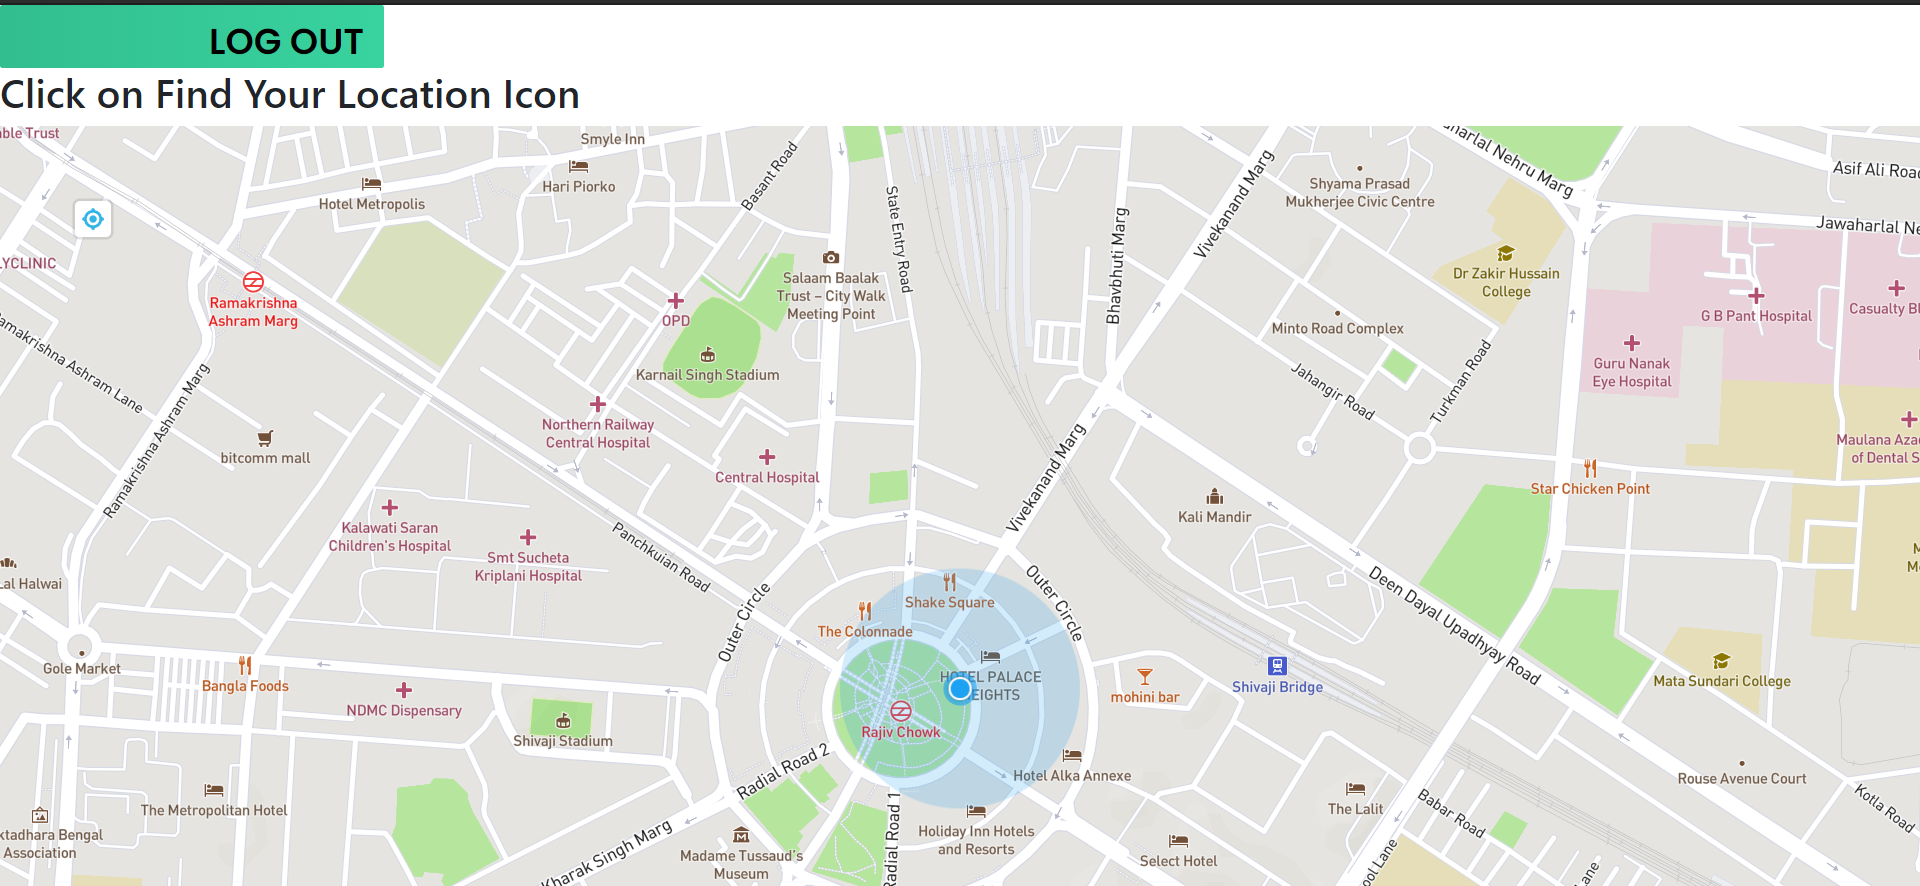
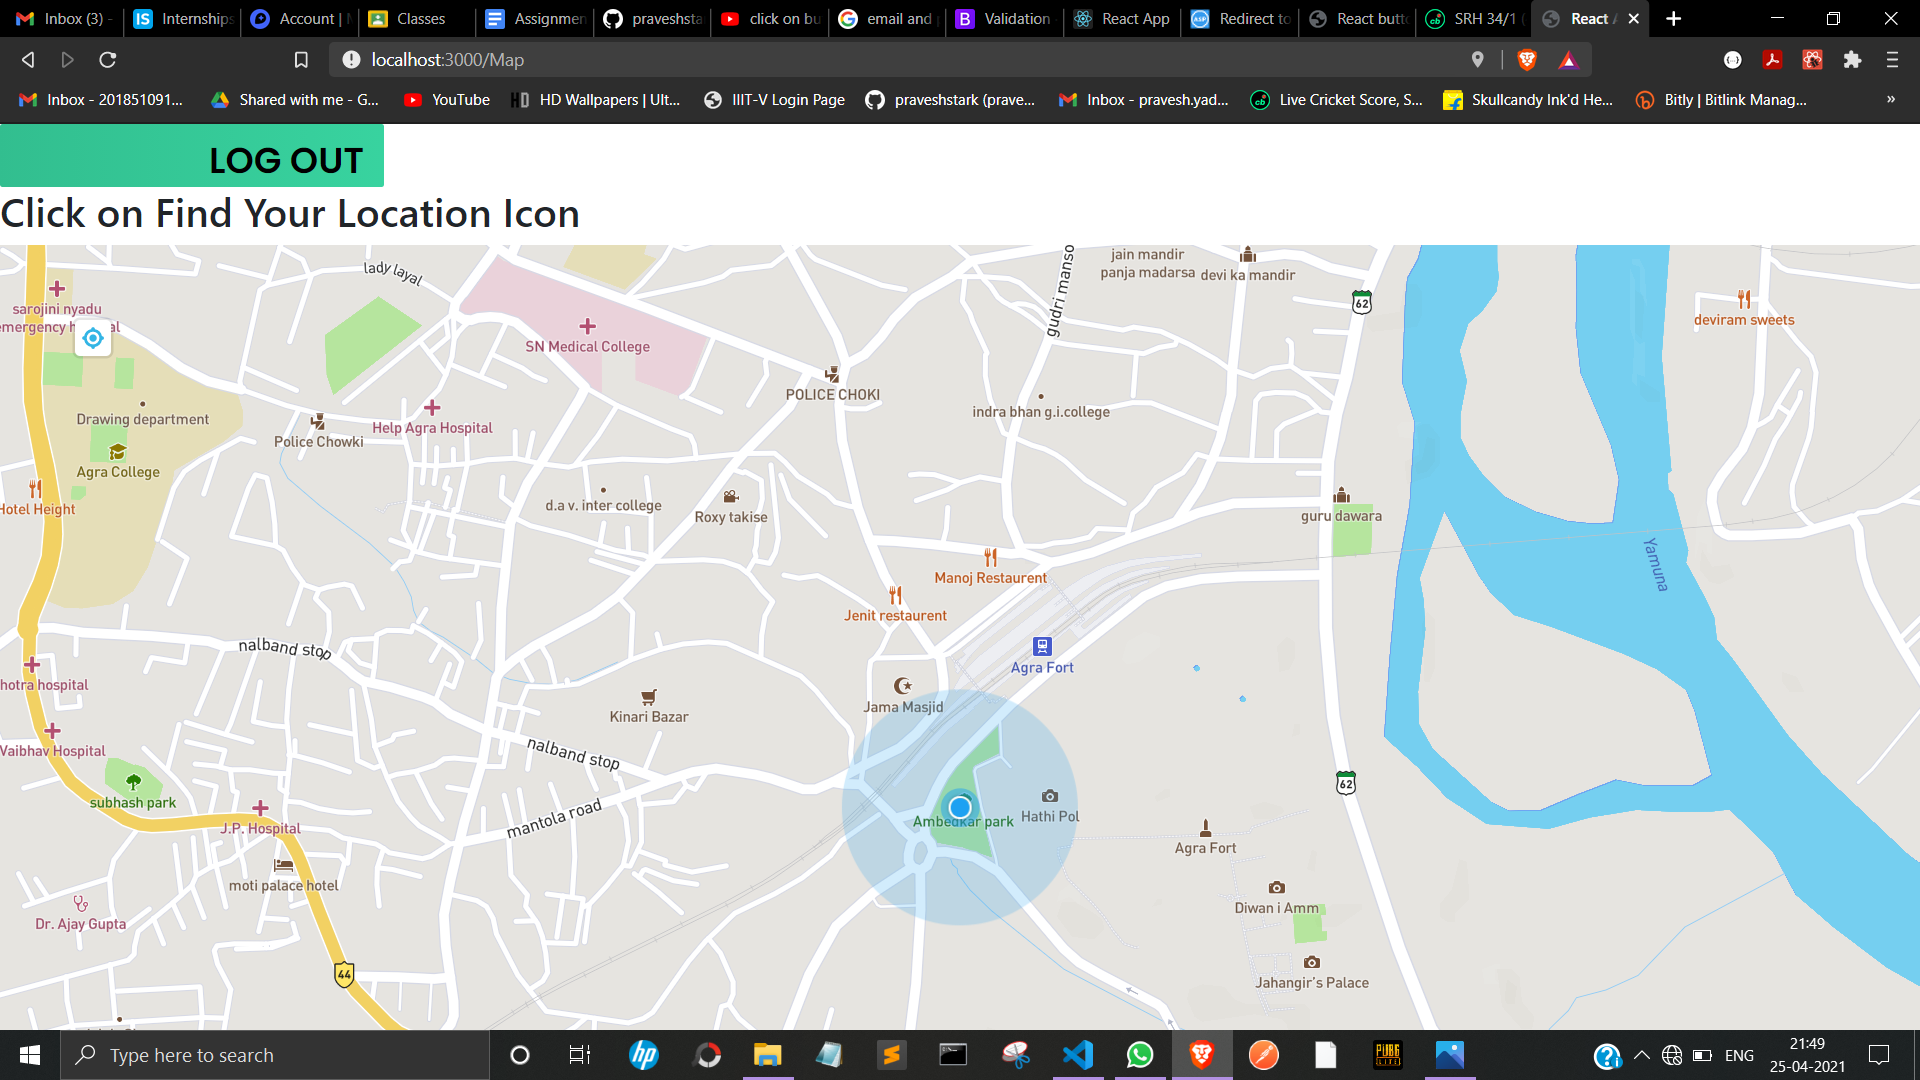
ReadMe UI

diff --git a/README.md b/README.md
@@ -9,3 +9,5 @@
 ### UI/UX-
 ![alt text](https://github.com/praveshstark/Mapbox/blob/main/src/img/Screenshot%20(172).png?raw=true)
 ![alt text](https://github.com/praveshstark/Mapbox/blob/main/src/img/Screenshot%20(173).png?raw=true)
+![alt text](https://github.com/praveshstark/Mapbox/blob/main/src/img/Screenshot%20(175).png?raw=true)
+
